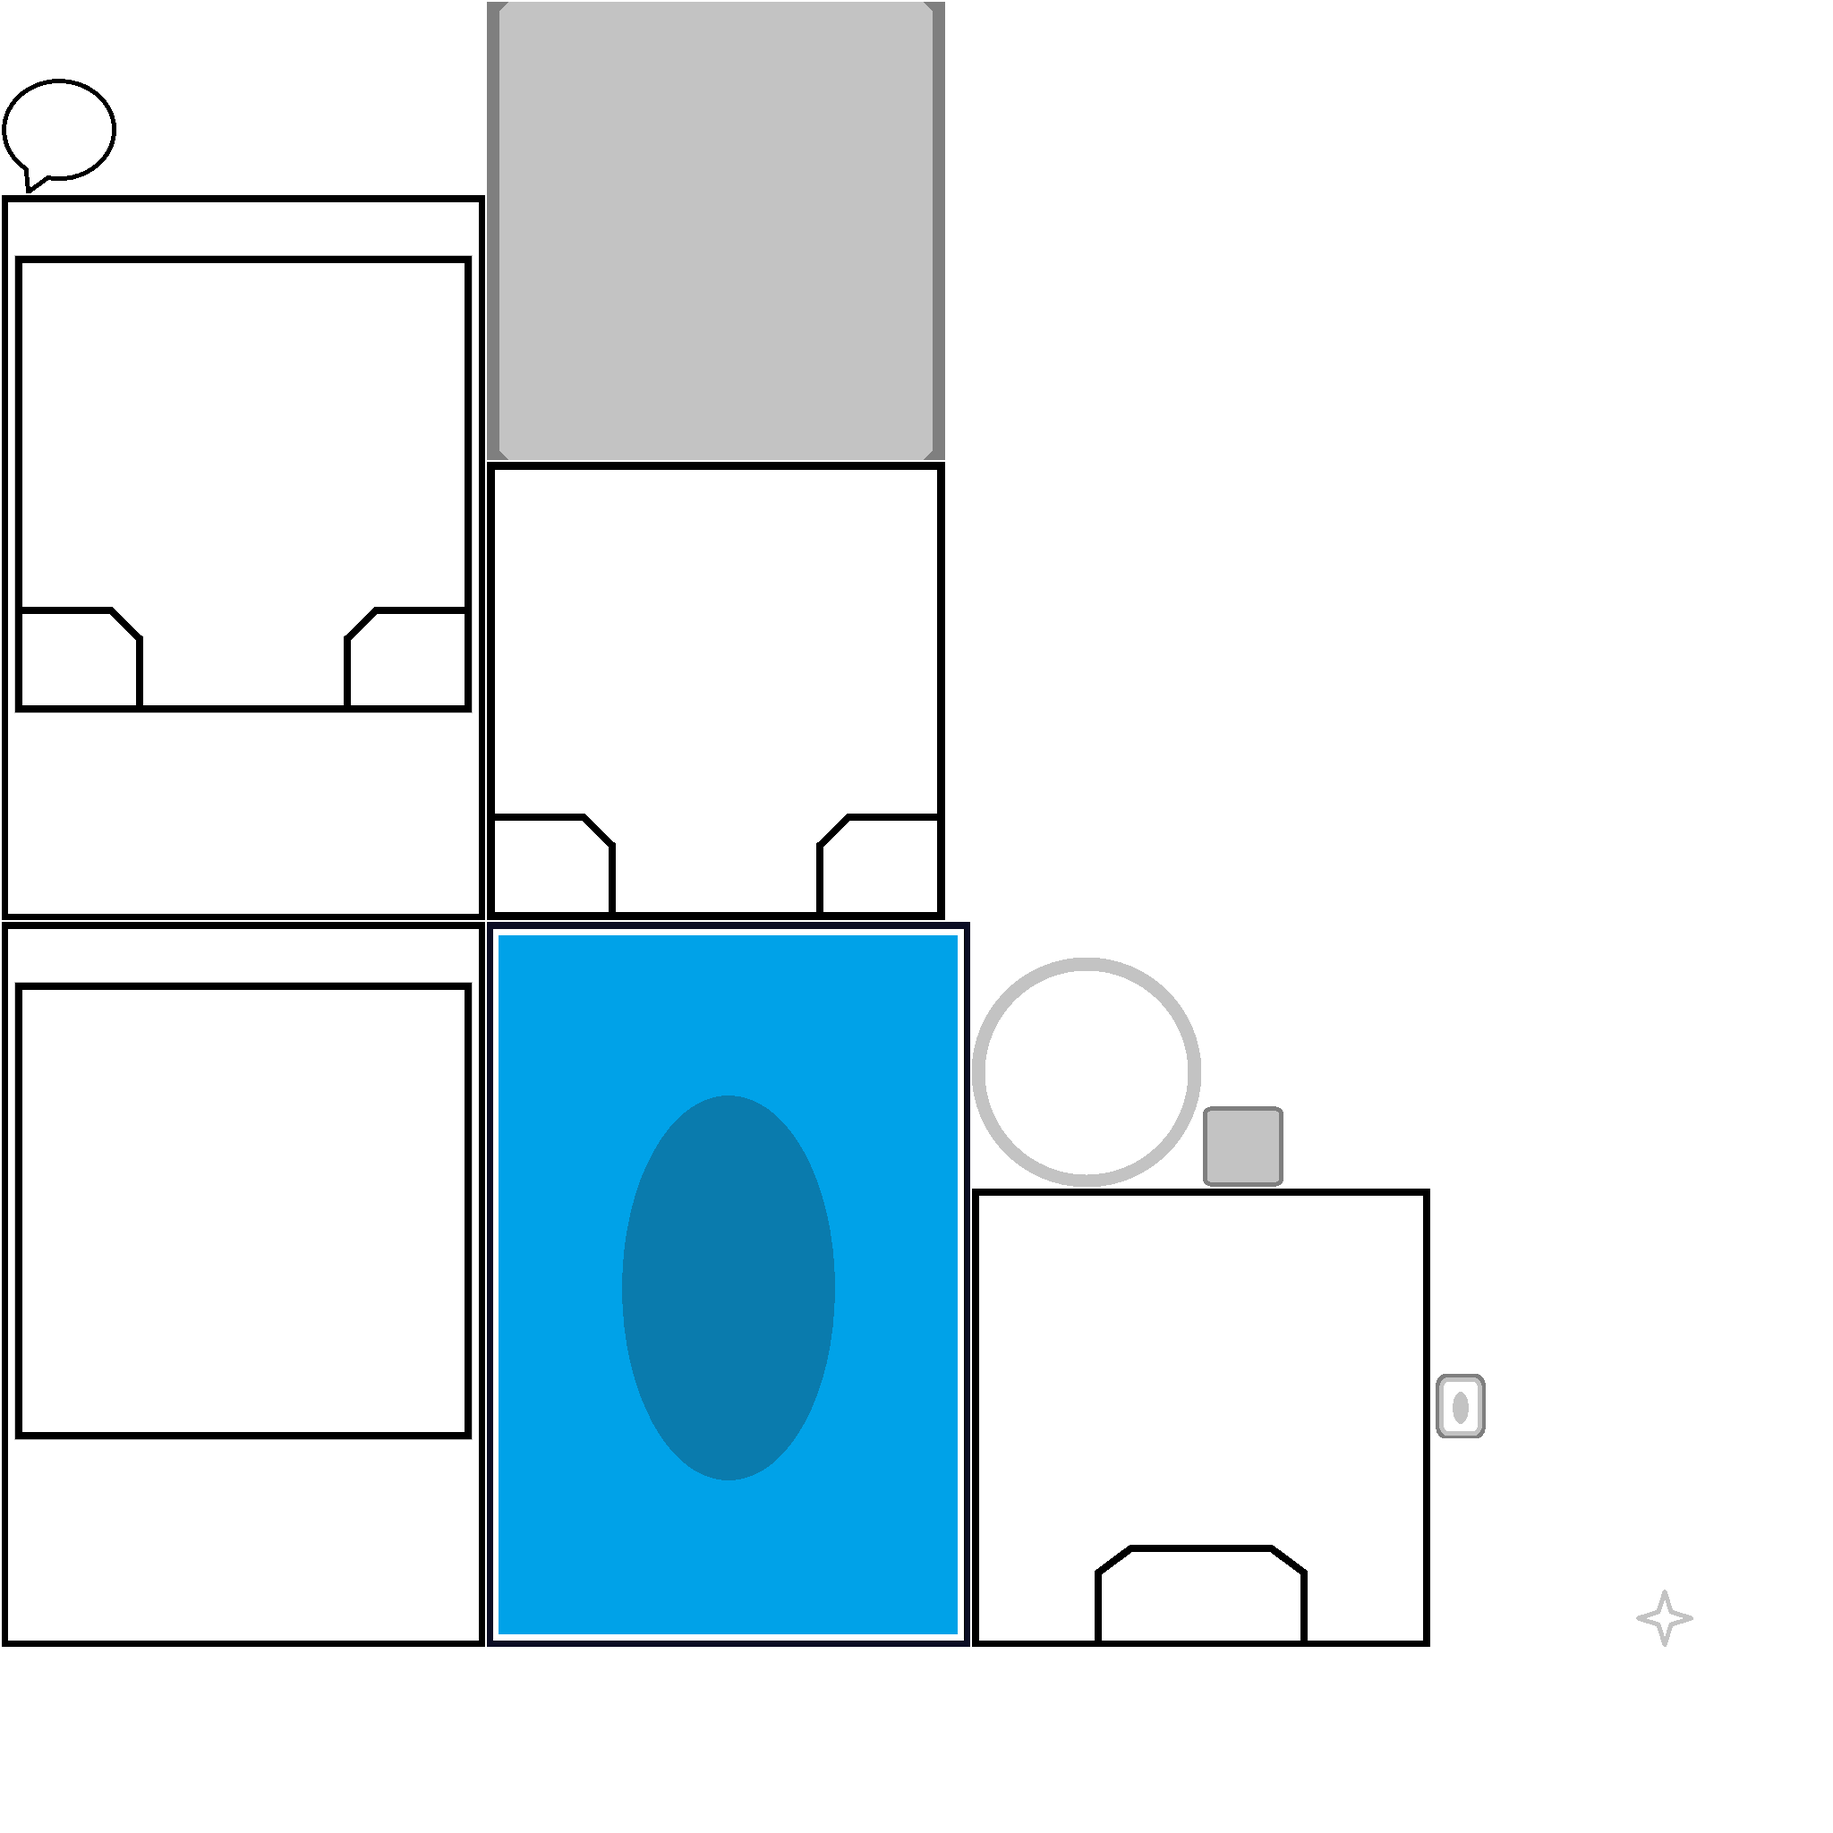
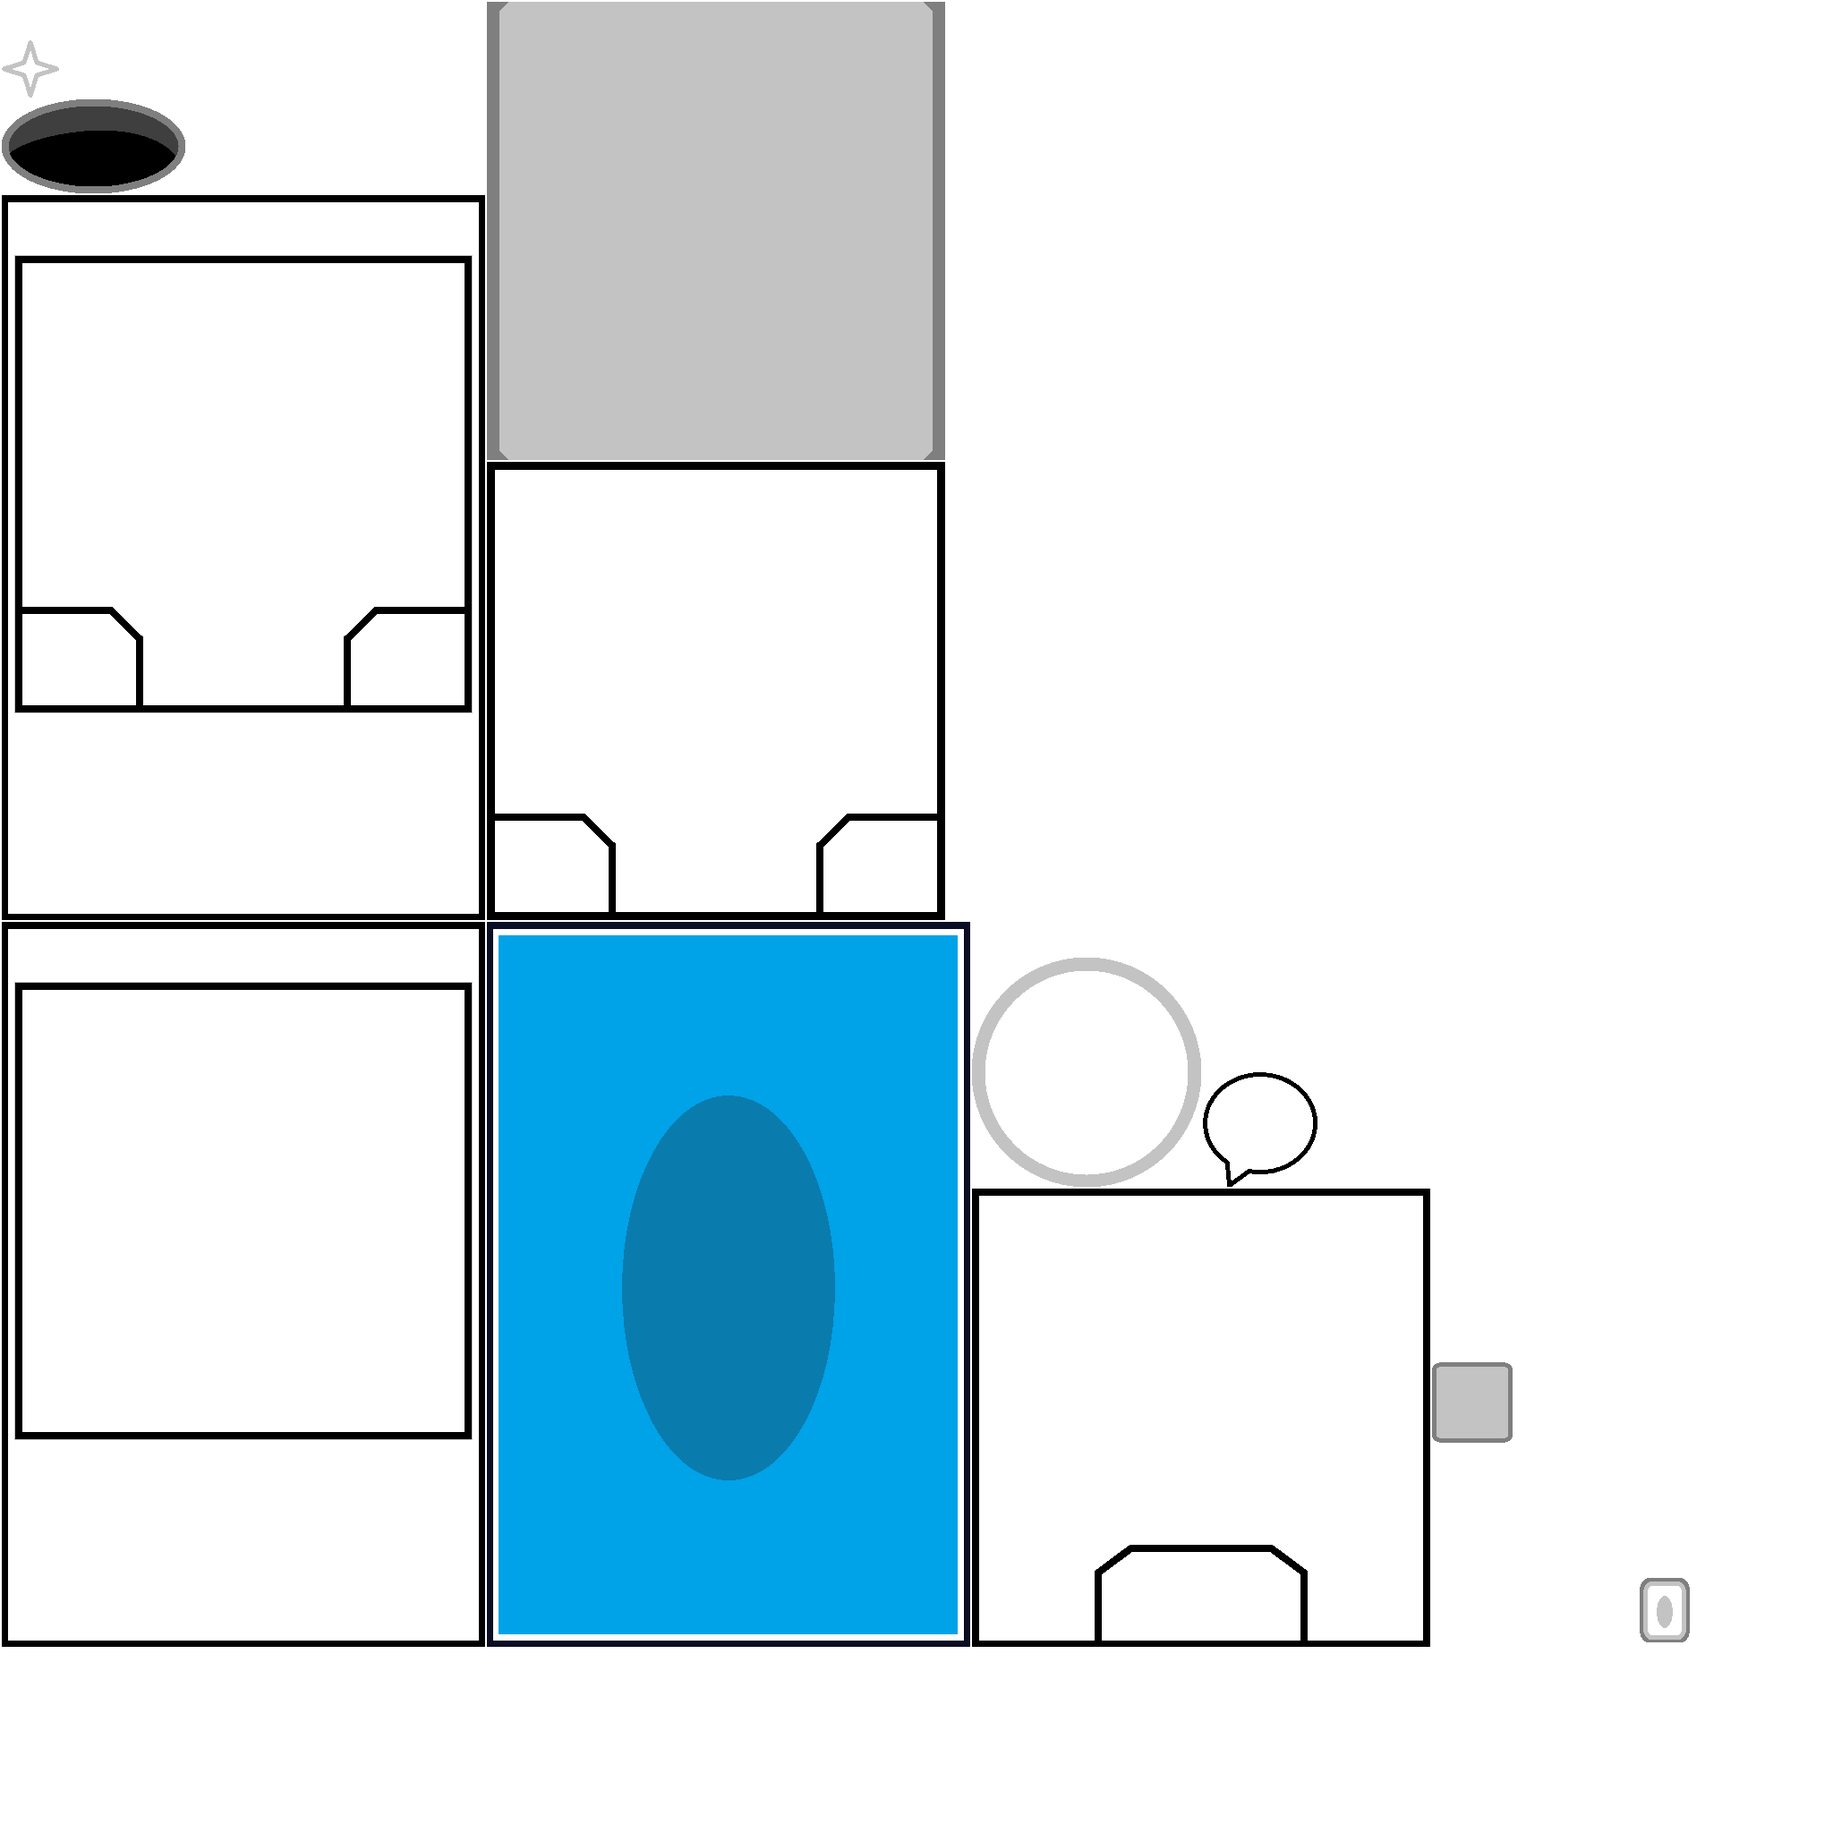
Added Discard Pile

diff --git a/core/src/main/java/io/bloogames/deckbuilder/view/DiscardPileView.java b/core/src/main/java/io/bloogames/deckbuilder/view/DiscardPileView.java
@@ -1,0 +1,69 @@
+package io.bloogames.deckbuilder.view;
+
+import com.badlogic.gdx.scenes.scene2d.Actor;
+import com.badlogic.gdx.scenes.scene2d.InputEvent;
+import com.badlogic.gdx.scenes.scene2d.ui.Image;
+import com.badlogic.gdx.scenes.scene2d.ui.Label;
+import com.badlogic.gdx.utils.Align;
+import io.bloogames.deckbuilder.manager.AssetManager;
+import io.bloogames.deckbuilder.manager.FontManager;
+import io.bloogames.deckbuilder.model.DiscardPileModel;
+import io.bloogames.deckbuilder.scene2d.HoverListener;
+import io.bloogames.deckbuilder.scene2d.ResizableGroup;
+import io.bloogames.deckbuilder.scene2d.ResizableSettings;
+import io.bloogames.deckbuilder.ui.View;
+
+import static com.badlogic.gdx.scenes.scene2d.actions.Actions.*;
+
+public class DiscardPileView extends ResizableGroup implements View {
+    public static final float WIDTH = 205;
+    public static final float HEIGHT = 105;
+
+    private DiscardPileModel model;
+    private Image image;
+    private Label discardPileLabel;
+
+    public DiscardPileView(DiscardPileModel model) {
+        super(WIDTH, HEIGHT);
+        this.model = model;
+        this.image = new Image(AssetManager.INSTANCE.findRegion("discardpile"));
+
+        register(image, new ResizableSettings(WIDTH, HEIGHT));
+        setupLabel();
+    }
+
+
+    public void setupLabel() {
+        discardPileLabel = new Label(model.size() + "",
+            new Label.LabelStyle(FontManager.INSTANCE.getDiscardPileSizeFont(), null));
+        discardPileLabel.setAlignment(Align.center, Align.center);
+        discardPileLabel.setVisible(false);
+
+        addListener(new HoverListener(0f, 0f) {
+            @Override
+            public void onHoverStart(InputEvent event, float x, float y, int pointer, Actor fromActor) {
+                discardPileLabel.addAction(
+                    sequence(
+                        visible(true),
+                        fadeIn(0.1f)
+                    ));
+            }
+
+            @Override
+            public void onHoverEnd(InputEvent event, float x, float y, int pointer, Actor toActor) {
+                discardPileLabel.addAction(
+                    sequence(
+                        fadeOut(0.1f),
+                        visible(false)
+                    ));
+            }
+        });
+
+        register(discardPileLabel, new ResizableSettings(WIDTH, HEIGHT));
+    }
+
+    @Override
+    public void sync() {
+        discardPileLabel.setText(model.size());
+    }
+}

diff --git a/core/src/main/java/io/bloogames/deckbuilder/manager/FontManager.java b/core/src/main/java/io/bloogames/deckbuilder/manager/FontManager.java
@@ -17,6 +17,7 @@ public enum FontManager {
     BitmapFont battlerCardManaCostFont;
     BitmapFont damagePopupFont;
     BitmapFont deckCardsLeftFont;
+    BitmapFont discardPileSizeFont;
 
     public BitmapFont getBattlerStatFont() {
         if (battlerStatFont == null) {
@@ -142,6 +143,23 @@ public enum FontManager {
         return deckCardsLeftFont;
     }
 
+    public BitmapFont getDiscardPileSizeFont() {
+        if (discardPileSizeFont == null) {
+            var generator = new FreeTypeFontGenerator(Gdx.files.internal("fonts/arial.ttf"));
+            var parameter = new FreeTypeFontGenerator.FreeTypeFontParameter();
+            parameter.color = Color.WHITE;
+            parameter.size = 76;
+            parameter.minFilter = Texture.TextureFilter.Linear;
+            parameter.magFilter = Texture.TextureFilter.Linear;
+            parameter.borderColor = Color.BLACK;
+            parameter.borderWidth = 3;
+            discardPileSizeFont = generator.generateFont(parameter);
+            generator.dispose();
+        }
+
+        return discardPileSizeFont;
+    }
+
     public void dispose() {
         if (cardNameFont != null) cardNameFont.dispose();
         if (battlerStatFont != null) battlerStatFont.dispose();
@@ -150,5 +168,6 @@ public enum FontManager {
         if (leaderMessageFont != null) leaderMessageFont.dispose();
         if (damagePopupFont != null) damagePopupFont.dispose();
         if (deckCardsLeftFont != null) deckCardsLeftFont.dispose();
+        if (discardPileSizeFont != null) discardPileSizeFont.dispose();
     }
 }

diff --git a/core/src/main/java/io/bloogames/deckbuilder/view/EnemyPartyView.java b/core/src/main/java/io/bloogames/deckbuilder/view/EnemyPartyView.java
@@ -12,22 +12,20 @@ public class EnemyPartyView extends PartyView {
     public EnemyPartyView(BattleController battleController, BattlePartyModel model) {
         super(model);
         setLeader(new LeaderView(model.getLeader()));
-
         setHand(new HandView(model.getHand(),
             new FannedGroup.FanSettings(0.3f, 0.3f, 10f, 1.5f,
                 1.045f, 180f, 0.15f),
             new HandHoverHandler(battleController.getBattleState(), 0.3f, 0.1f)));
-
         setTableau(new TableauView(model.getTableau()));
-
         setManaView(new ManaView(model.getLeader()));
-
         setDeck(new DeckView(model.getDeck(), true));
+        setDiscardPile(new DiscardPileView(model.getDiscardPile()));
 
         register(getTableau(), new ResizableSettings(WIDTH * 0.6f, HEIGHT * 0.4f, Align.bottom)
             .yOffset(10f));
         register(getLeader(), new ResizableSettings(200f, 200f, Align.topLeft)
             .padding(10, 10).keepAspect());
+        register(getDiscardPile(), new ResizableSettings(153.75f, 78.75f, Align.bottomRight).offset(30, 340).keepAspect());
         register(getDeck(), new ResizableSettings(200, 300, Align.bottomRight).offset(10, 10).keepAspect());
         register(getHand(), new ResizableSettings(WIDTH * 0.66f, HEIGHT * 0.5f, Align.top)
             .yOffset(HEIGHT * -0.4f));

diff --git a/core/src/main/java/io/bloogames/deckbuilder/model/aura/concrete/ShieldAura.java b/core/src/main/java/io/bloogames/deckbuilder/model/aura/concrete/ShieldAura.java
@@ -5,6 +5,7 @@ import io.bloogames.deckbuilder.damage.Damage;
 import io.bloogames.deckbuilder.damage.DamageModifier;
 import io.bloogames.deckbuilder.effect.context.TargetContext;
 import io.bloogames.deckbuilder.effect.target.concrete.DamageableTarget;
+import io.bloogames.deckbuilder.event.GameEvent;
 import io.bloogames.deckbuilder.model.aura.Aura;
 import io.bloogames.deckbuilder.model.aura.StackableAura;
 
@@ -15,6 +16,7 @@ public class ShieldAura extends StackableAura {
 
     @Override
     public void beforeDamage(TargetContext<DamageableTarget> damageableTargetContext, Damage damage) {
+        ShieldAura that = this;
         damage.addModifier(new DamageModifier() {
             @Override
             public float calculate(Damage damage, float currentAmount) {
@@ -26,6 +28,7 @@ public class ShieldAura extends StackableAura {
                 float result = calculate(damage, currentAmount);
                 int amountRemoved = MathUtils.ceil(result - currentAmount);
                 removeStacks(amountRemoved);
+                context.game().dispatch(new GameEvent.AuraModifiedEvent(that));
                 return result;
             }
 

diff --git a/core/src/main/java/io/bloogames/deckbuilder/model/BattlePartyModel.java b/core/src/main/java/io/bloogames/deckbuilder/model/BattlePartyModel.java
@@ -10,12 +10,14 @@ public class BattlePartyModel {
     private final TableauModel tableau;
     private final HandModel hand;
     private final DeckModel deck;
+    private final DiscardPileModel discardPile;
 
     public BattlePartyModel(PartyModel party) {
         this.party = party;
         this.tableau = new TableauModel(GameConstants.NUM_SLOTS, getOwnership().getCurrentOwner());
         this.hand = new HandModel(GameConstants.MAX_HAND_SIZE, getOwnership().getCurrentOwner());
         this.deck = new DeckModel(party.getFullDeck().getCards(), getOwnership().getCurrentOwner());
+        this.discardPile = new DiscardPileModel(getOwnership().getCurrentOwner());
     }
 
     public PartyModel getParty() {
@@ -36,6 +38,10 @@ public class BattlePartyModel {
 
     public DeckModel getDeck() {
         return deck;
+    }
+
+    public DiscardPileModel getDiscardPile() {
+        return discardPile;
     }
 
     public Ownership getOwnership() {

diff --git a/core/src/main/java/io/bloogames/deckbuilder/view/PartyView.java b/core/src/main/java/io/bloogames/deckbuilder/view/PartyView.java
@@ -14,7 +14,8 @@ public abstract class PartyView extends ResizableGroup implements View {
     private HandView hand;
     private TableauView tableau;
     private ManaView manaView;
-    private DeckView deckView;
+    private DeckView deck;
+    private DiscardPileView discardPile;
 
     public PartyView(BattlePartyModel model) {
         super(WIDTH, HEIGHT);
@@ -63,11 +64,19 @@ public abstract class PartyView extends ResizableGroup implements View {
     }
 
     public DeckView getDeck() {
-        return deckView;
+        return deck;
     }
 
     public void setDeck(DeckView deckView) {
-        this.deckView = deckView;
+        this.deck = deckView;
+    }
+
+    public DiscardPileView getDiscardPile() {
+        return discardPile;
+    }
+
+    public void setDiscardPile(DiscardPileView discardPile) {
+        this.discardPile = discardPile;
     }
 
     @Override

diff --git a/core/src/main/java/io/bloogames/deckbuilder/model/DiscardPileModel.java b/core/src/main/java/io/bloogames/deckbuilder/model/DiscardPileModel.java
@@ -1,0 +1,34 @@
+package io.bloogames.deckbuilder.model;
+
+import com.badlogic.gdx.utils.Array;
+import io.bloogames.deckbuilder.model.ownership.Ownership;
+
+public class DiscardPileModel {
+    private Ownership ownership;
+    private Array<CardModel> cards;
+
+    public DiscardPileModel(Ownership.Type owner) {
+        this.ownership = new Ownership(owner);
+        cards = new Array<>();
+    }
+
+    public Ownership getOwnership() {
+        return ownership;
+    }
+
+    public void addCard(CardModel card) {
+        cards.add(card);
+    }
+
+    public int size() {
+        return cards.size;
+    }
+
+    public Array<CardModel> getCards() {
+        return cards;
+    }
+
+    public void removeCard(CardModel card) {
+        cards.removeValue(card, true);
+    }
+}

diff --git a/core/src/main/java/io/bloogames/deckbuilder/view/PlayerPartyView.java b/core/src/main/java/io/bloogames/deckbuilder/view/PlayerPartyView.java
@@ -28,11 +28,14 @@ public class PlayerPartyView extends PartyView {
 
         setDeck(new DeckView(model.getDeck(), false));
 
+        setDiscardPile(new DiscardPileView(model.getDiscardPile()));
+
         register(getTableau(), new ResizableSettings(WIDTH * 0.6f, HEIGHT * 0.4f, Align.top)
             .yOffset(10f));
 
         register(getLeader(), new ResizableSettings(200f, 200f).padding(10, 10).keepAspect());
 
+        register(getDiscardPile(), new ResizableSettings(153.75f, 78.75f, Align.topRight).offset(30, 340).keepAspect());
         register(getDeck(), new ResizableSettings(200, 300, Align.topRight).offset(10, 10).keepAspect());
 
         register(getHand(), new ResizableSettings(WIDTH * 0.66f, HEIGHT * 0.5f, Align.bottom).yOffset(HEIGHT * -0.3f));

diff --git a/core/src/main/java/io/bloogames/deckbuilder/view/event/ViewEvent.java b/core/src/main/java/io/bloogames/deckbuilder/view/event/ViewEvent.java
@@ -5,6 +5,7 @@ import io.bloogames.deckbuilder.effect.source.concrete.CardSource;
 import io.bloogames.deckbuilder.effect.target.Target;
 import io.bloogames.deckbuilder.error.ValidationError;
 import io.bloogames.deckbuilder.model.*;
+import io.bloogames.deckbuilder.model.aura.Aura;
 import io.bloogames.deckbuilder.ui.BattleState;
 import io.bloogames.deckbuilder.ui.BattleViewState;
 
@@ -48,6 +49,10 @@ public sealed interface ViewEvent {
     }
 
     record EffectFailedEvent(Source source, Target target, ValidationError error)
+        implements ViewEvent {
+    }
+
+    record AuraModifiedEvent(Aura aura)
         implements ViewEvent {
     }
 }

diff --git a/core/src/main/java/io/bloogames/deckbuilder/event/GameEvent.java b/core/src/main/java/io/bloogames/deckbuilder/event/GameEvent.java
@@ -5,6 +5,7 @@ import io.bloogames.deckbuilder.effect.source.concrete.CardSource;
 import io.bloogames.deckbuilder.effect.target.Target;
 import io.bloogames.deckbuilder.error.ValidationError;
 import io.bloogames.deckbuilder.model.*;
+import io.bloogames.deckbuilder.model.aura.Aura;
 import io.bloogames.deckbuilder.ui.BattleState;
 
 public sealed interface GameEvent {
@@ -37,6 +38,10 @@ public sealed interface GameEvent {
     }
 
     record EffectFailedEvent(Source source, Target target, ValidationError error)
+        implements GameEvent {
+    }
+
+    record AuraModifiedEvent(Aura aura)
         implements GameEvent {
     }
 }

diff --git a/core/src/main/java/io/bloogames/deckbuilder/model/coordinator/ViewEventBus.java b/core/src/main/java/io/bloogames/deckbuilder/model/coordinator/ViewEventBus.java
@@ -59,6 +59,7 @@ public class ViewEventBus implements GameEventListener<GameEvent> {
             case GameEvent.ManaSpentEvent e -> new ViewEvent.ManaSpentEvent(e.leader(), e.amount());
             case GameEvent.CardDrawnEvent e -> new ViewEvent.CardDrawnEvent(e.hand(), e.card());
             case GameEvent.EffectFailedEvent e -> new ViewEvent.EffectFailedEvent(e.source(), e.target(), e.error());
+            case GameEvent.AuraModifiedEvent e -> new ViewEvent.AuraModifiedEvent(e.aura());
         };
     }
 

diff --git a/core/src/main/java/io/bloogames/deckbuilder/model/ownership/Ownership.java b/core/src/main/java/io/bloogames/deckbuilder/model/ownership/Ownership.java
@@ -7,6 +7,7 @@ public class Ownership {
 
     public Ownership(Type originalOwner) {
         this.originalOwner = originalOwner;
+        this.currentOwner = originalOwner;
     }
 
     public Type getCurrentOwner() {
@@ -20,7 +21,6 @@ public class Ownership {
     public void setCurrentOwner(Type currentOwner) {
         this.currentOwner = currentOwner;
     }
-
 
     public enum Type {
         NONE,
